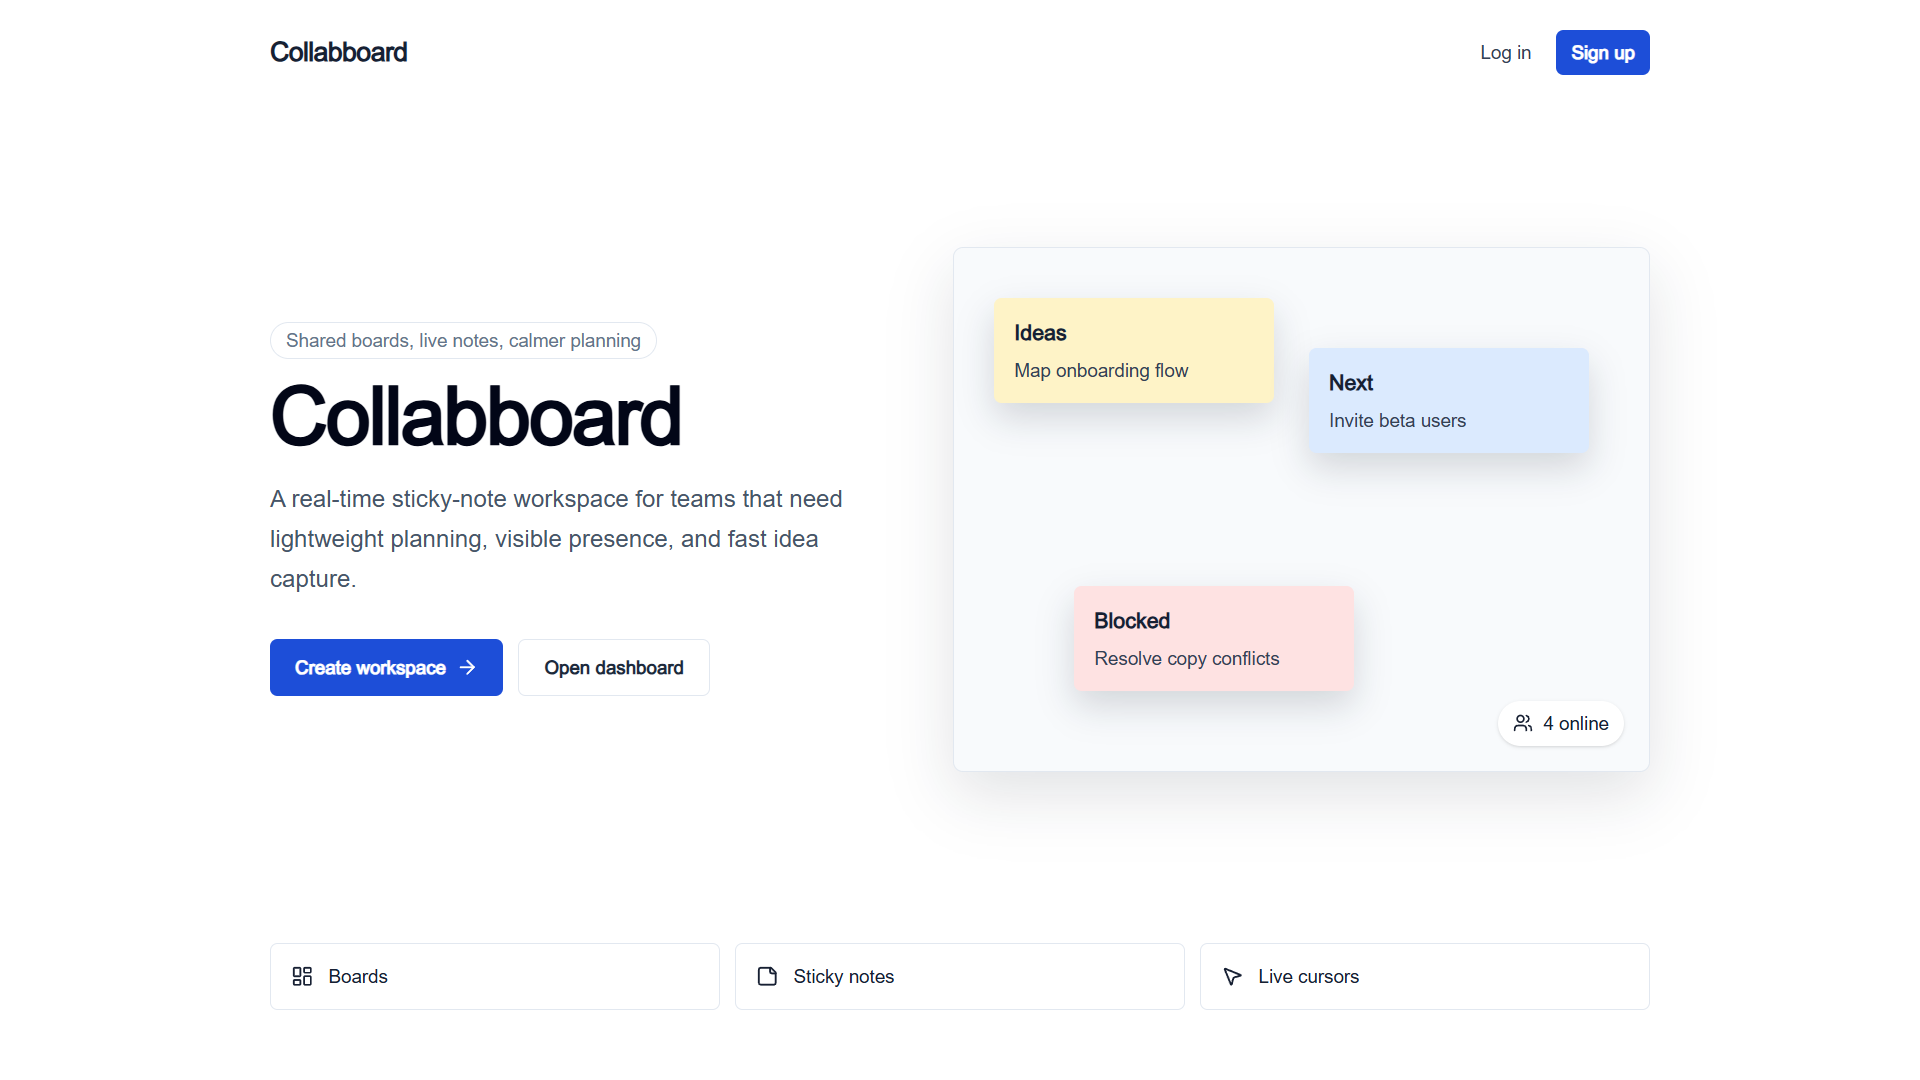
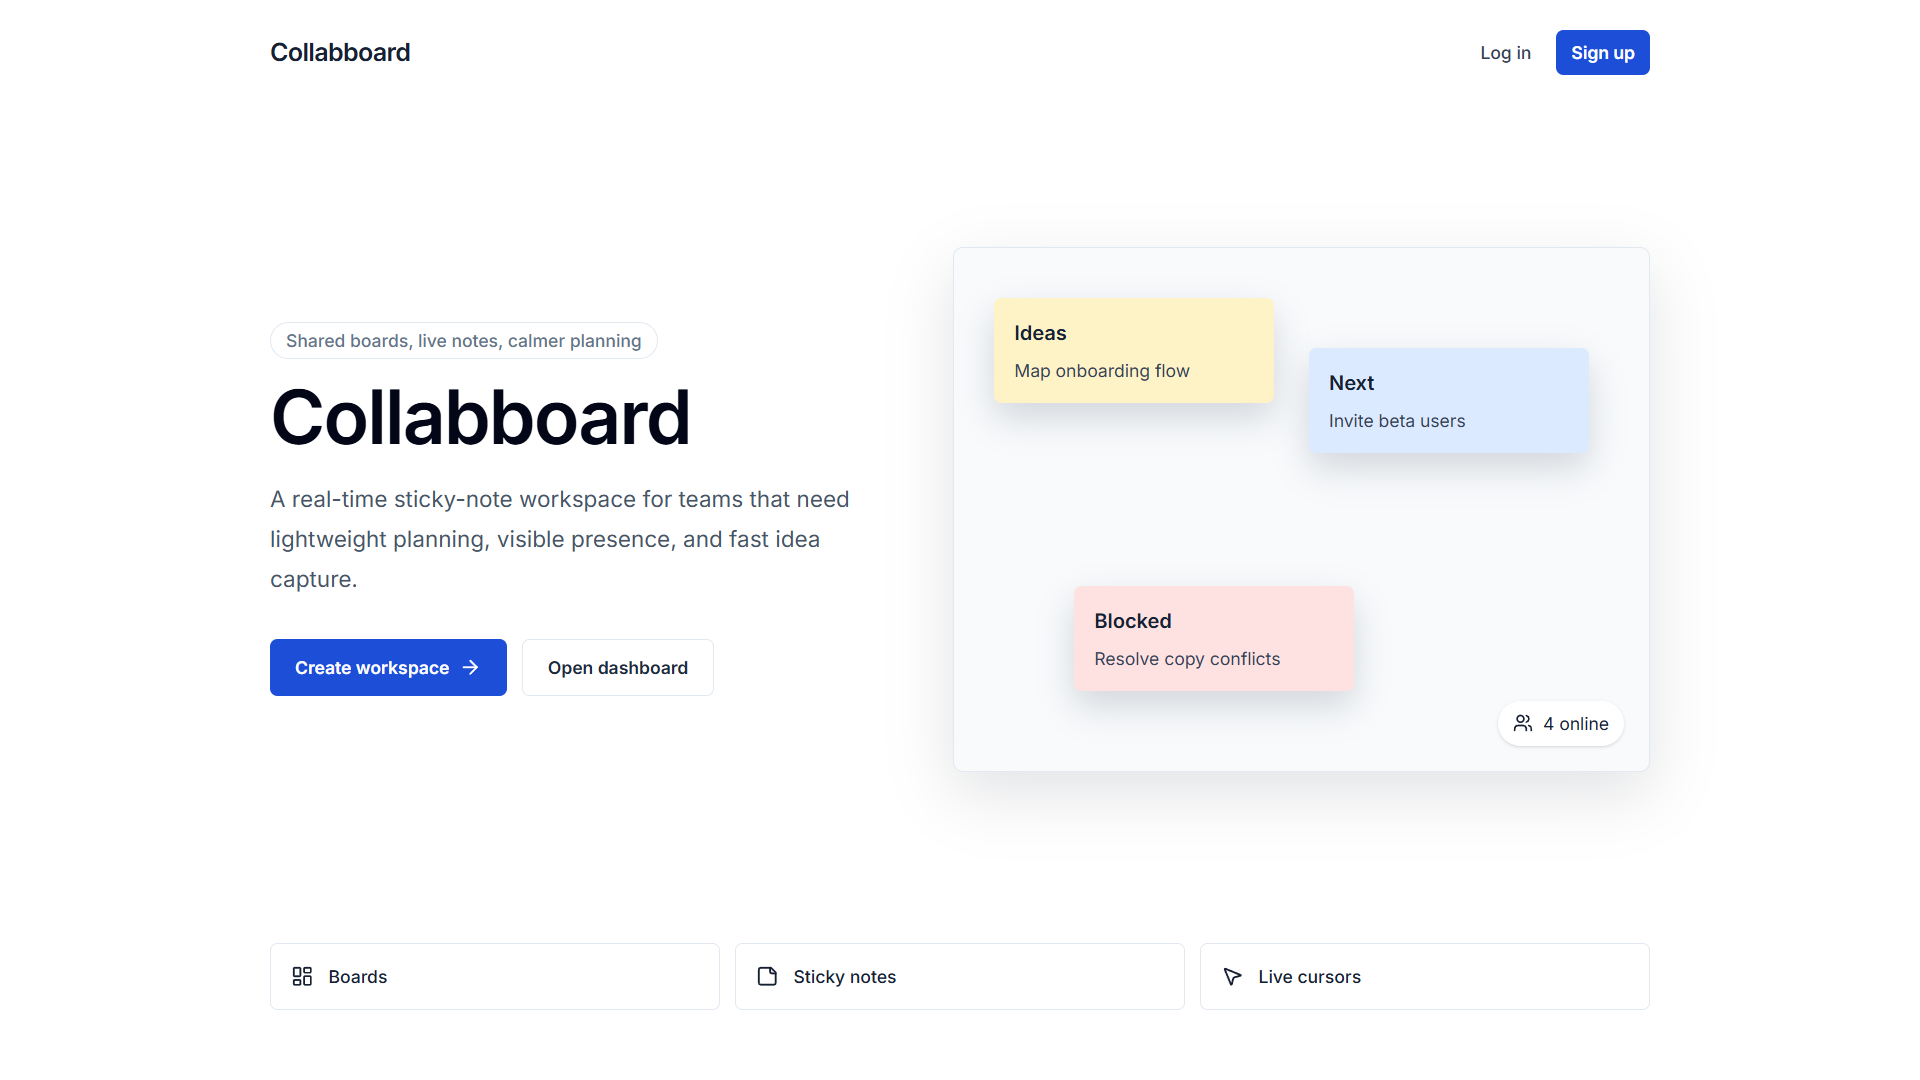
Add demo accounts and update screenshots
Added a demo accounts section to the README with credentials for Owner, Editor, and Viewer roles, demonstrating the member-permission model. Updated the three demo images (img1.png, img2.png, img3.png) to reflect current UI.

diff --git a/README.md b/README.md
@@ -8,6 +8,16 @@ A real-time collaborative whiteboard application that allows multiple users to c
 
 Register a free account to try it out. Running on the raw ALB endpoint for now — a custom domain with HTTPS (ACM + Route 53) is a planned next step, see [Notes](#notes).
 
+**Demo accounts** (seeded, shared — anyone can use them, so don't store anything private; the three roles show off the member-permission model):
+
+| Role   | Email                      | Password      |
+|--------|----------------------------|---------------|
+| Owner  | `[email redacted]`   | `Password123!` |
+| Editor | `[email redacted]`  | `Editor123!`   |
+| Viewer | `[email redacted]`  | `Viewer123!`   |
+
+Open the same board as two different accounts in two tabs to see live cursors, presence, and note locking in action.
+
 ## Overview
 
 Collaboard is a web-based collaborative canvas where users can: